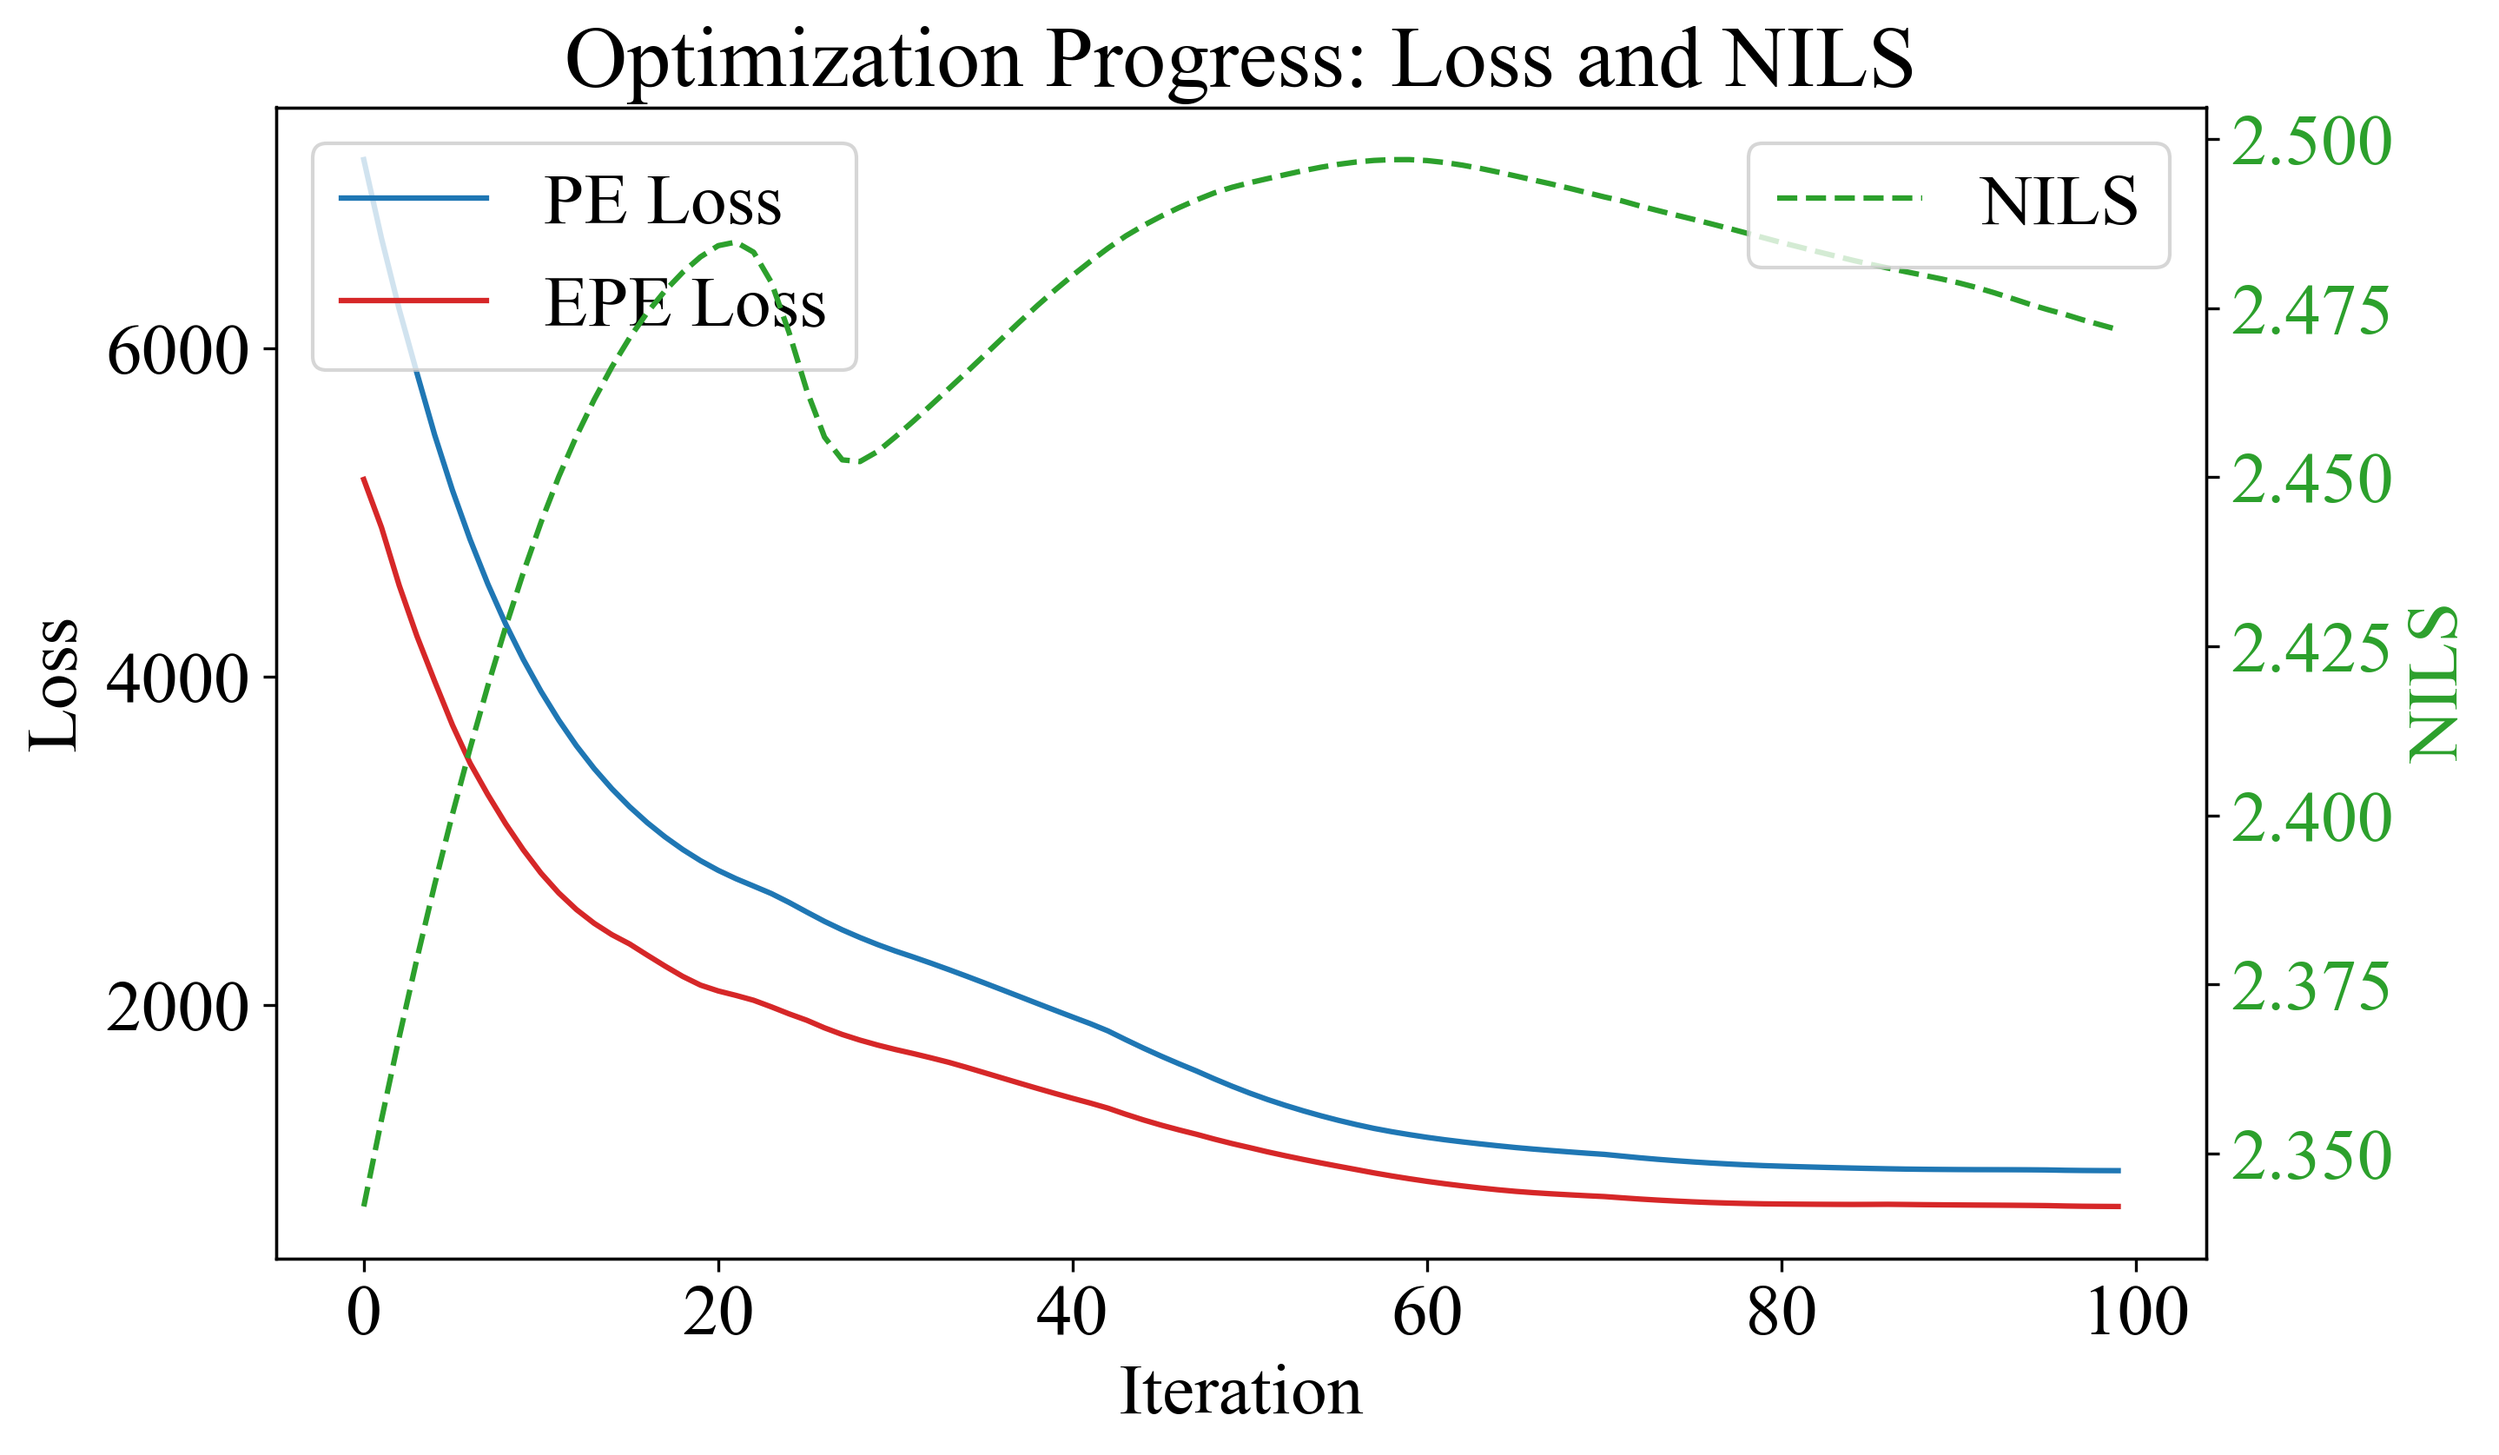
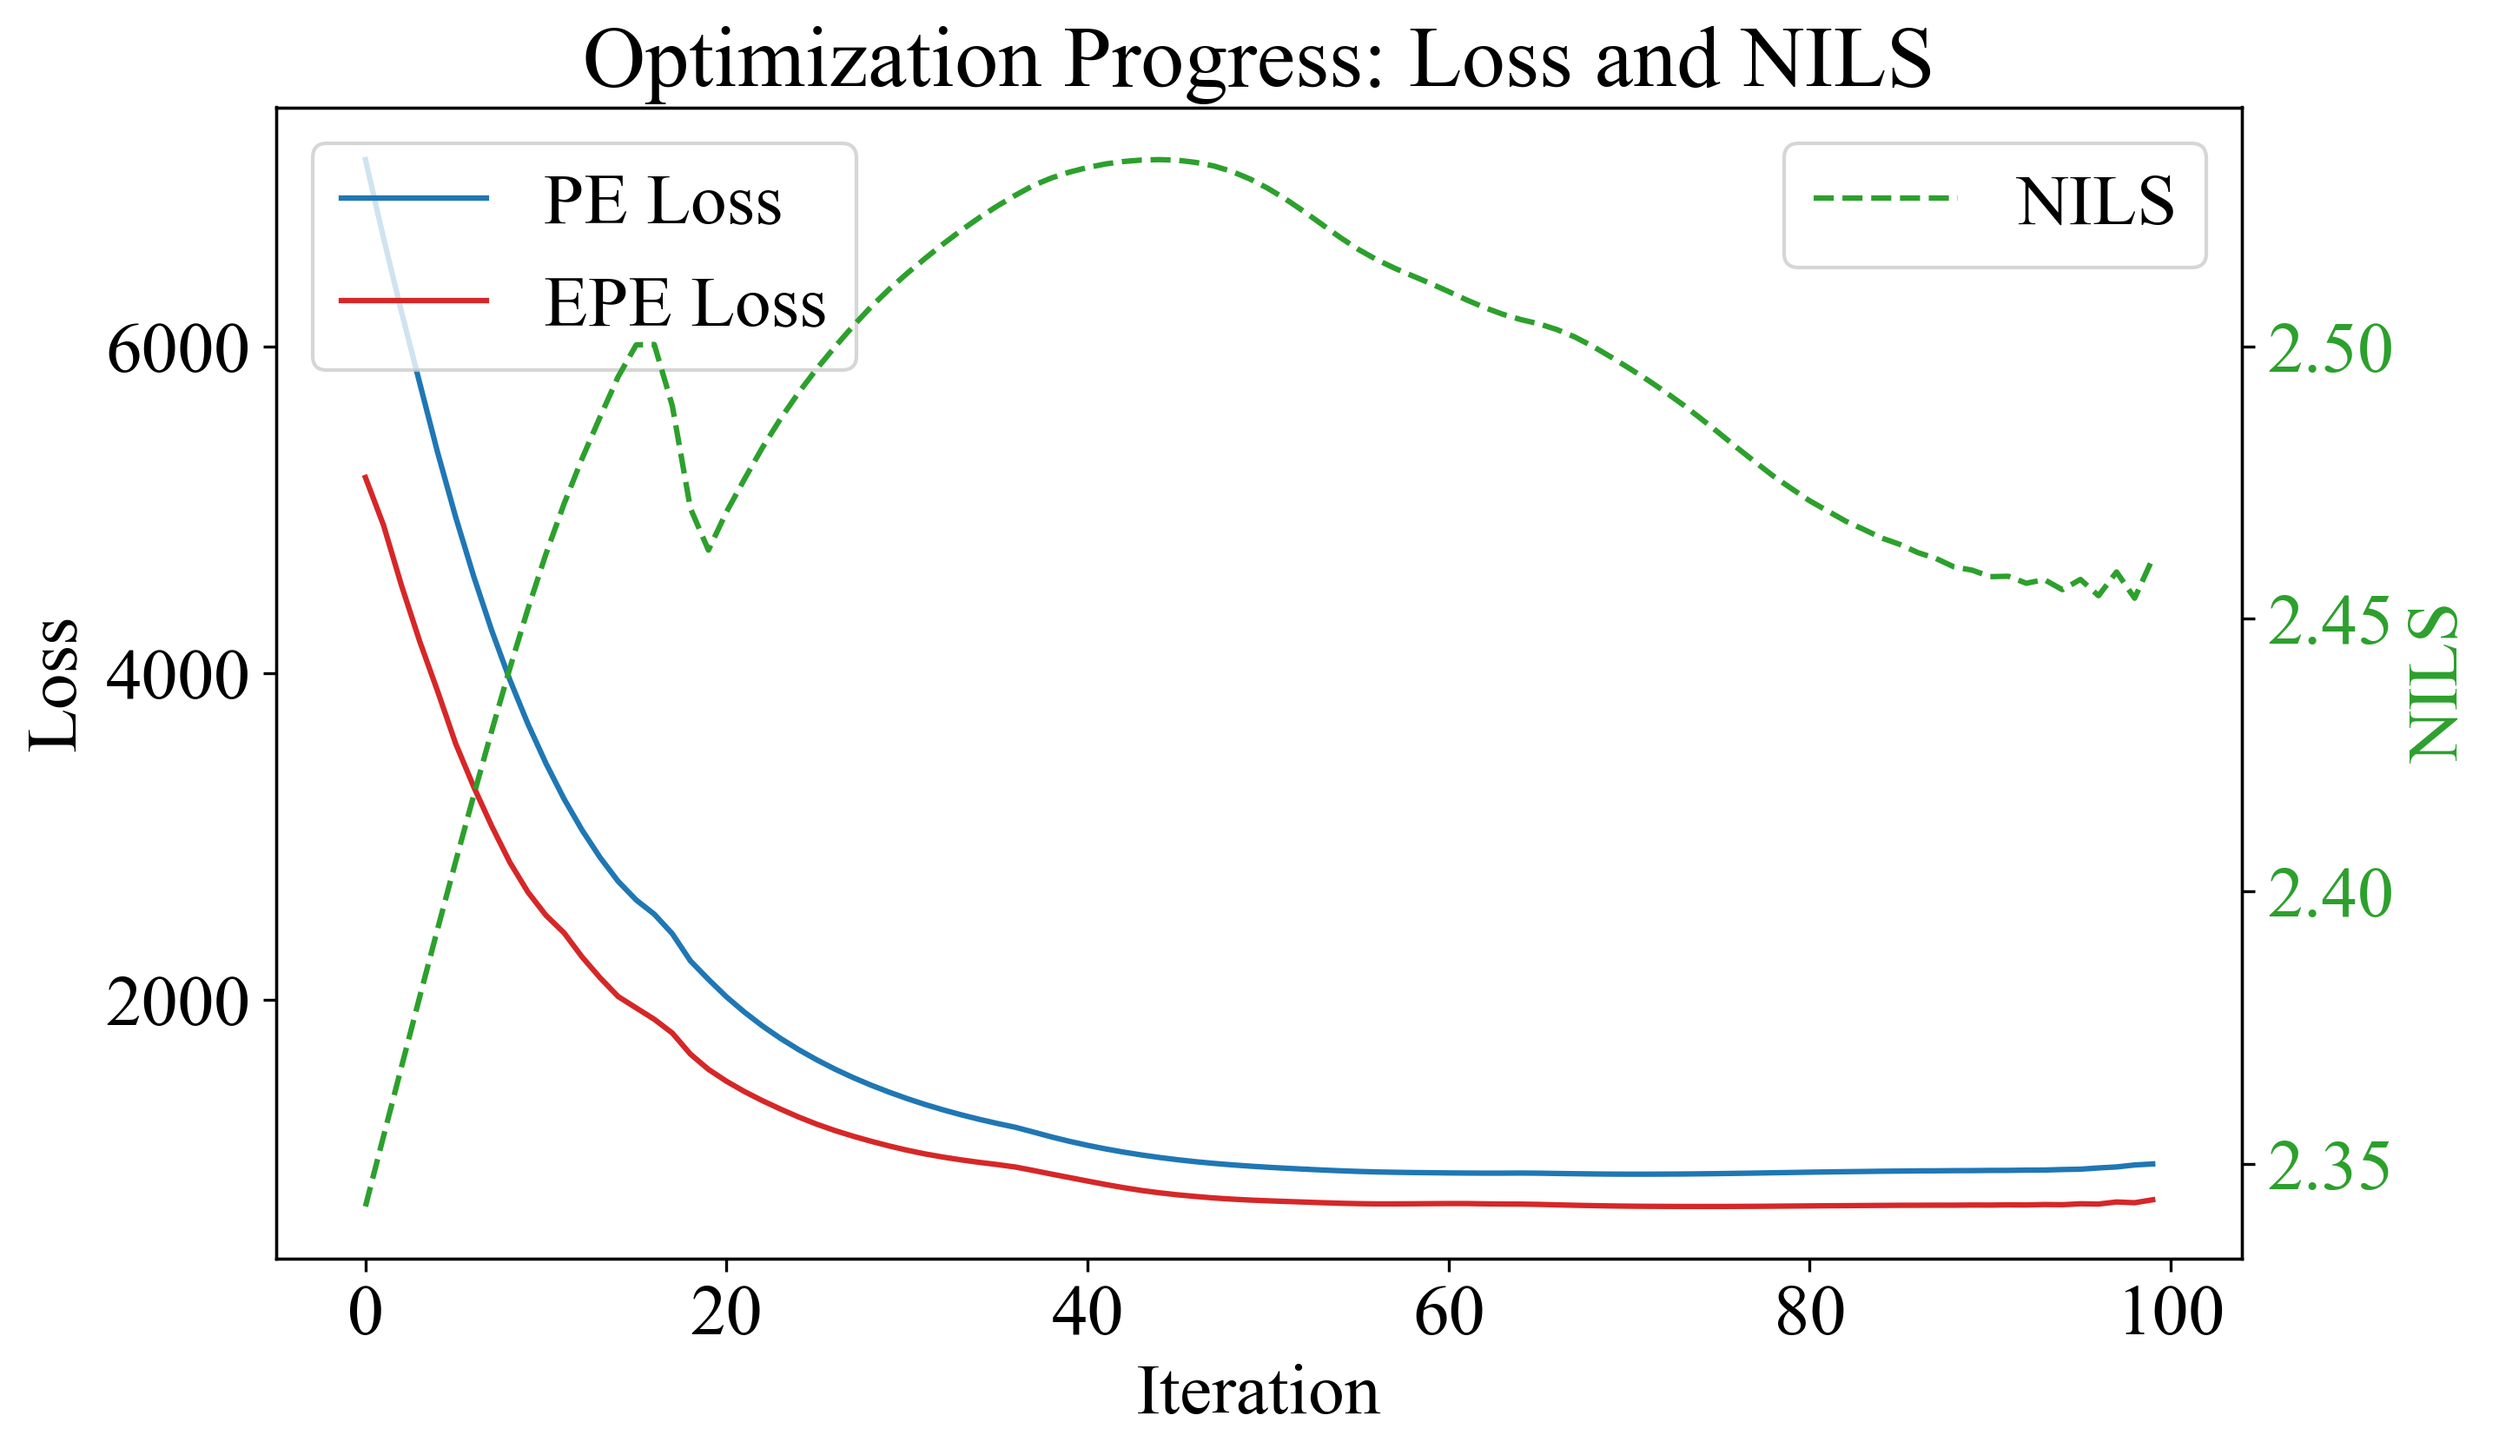
delete Warm-up iteration update log

diff --git a/core/inverse_lithography_comb.py b/core/inverse_lithography_comb.py
@@ -6,7 +6,7 @@ from scipy.fft import fft2, ifft2, fftshift, ifftshift
 from scipy.sparse.linalg import svds
 from tqdm import tqdm
 from scipy.sparse import lil_matrix, csr_matrix
-from scipy.ndimage import laplace  # 用于稳定的 NILS 梯度
+from scipy.ndimage import laplace
 from config.parameters import *
 from utils.optimization_logger import OptimizationLogger
 
@@ -16,19 +16,17 @@ logger = logging.getLogger(__name__)
 class EdgeConstrainedInverseLithographyOptimizer:
     """
     边缘约束逆光刻优化器 (Edge-Constrained PE Base)
-    包含了带“形状守卫”的拉普拉斯 NILS 联合优化方案
+    包含拉普拉斯 NILS 联合优化方案（无预热切换，始终联合优化）
     """
 
     def __init__(self, lambda_=LAMBDA, na=NA, sigma=SIGMA, dx=DX, dy=DY,
                  lx=LX, ly=LY, k_svd=ILT_K_SVD, a=A, tr=TR,
                  optimizer_type=OPTIMIZER_TYPE, edge_pixel_range=5,
-                 canny_low_threshold=1, canny_high_threshold=300,
-                 lambda_nils=0.5, nils_cd=NILS_CD, nils_edge_dilation=5,
-                 apply_sharpening=False, sharpening_strength=2.0, sharpening_sigma=1):
+                 canny_low_threshold=50, canny_high_threshold=200,
+                 lambda_nils=0.7, nils_cd=NILS_CD):  # lambda_nils 控制 NILS 权重，0 表示不开启
         """
         参数:
-            lambda_nils: NILS 梯度的最大缩放比例 (建议 0.1~0.2，0 表示不开启)
-            apply_sharpening: 是否应用空间像锐化 (建议设为 False，使用真实的 ILT NILS 优化)
+            lambda_nils: NILS 梯度的整体能量比例（建议 0.5~1.0），0 表示禁用 NILS 优化
         """
         self.lambda_ = lambda_
         self.na = na
@@ -46,10 +44,6 @@ class EdgeConstrainedInverseLithographyOptimizer:
         self.canny_high_threshold = canny_high_threshold
         self.lambda_nils = lambda_nils
         self.nils_cd = nils_cd
-        self.nils_edge_dilation = nils_edge_dilation
-        self.apply_sharpening = apply_sharpening
-        self.sharpening_strength = sharpening_strength
-        self.sharpening_sigma = sharpening_sigma
         self.optimizer_state = {}
 
         self.update_mask = None
@@ -59,8 +53,8 @@ class EdgeConstrainedInverseLithographyOptimizer:
         self._precompute_tcc_svd()
 
         logger.info(
-            f"EdgeConstrainedInverseLithographyOptimizer initialized: opt={optimizer_type}, "
-            f"lambda_nils={lambda_nils}, apply_sharpening={apply_sharpening}")
+            f"EdgeConstrainedInverseLithographyOptimizer initialized: opt={optimizer_type}"
+        )
 
     def pupil_response_function(self, fx, fy):
         r = np.sqrt(fx ** 2 + fy ** 2)
@@ -184,7 +178,6 @@ class EdgeConstrainedInverseLithographyOptimizer:
         """
         binary_target = (target > 0.5).astype(np.uint8)
         kernel = np.ones((3, 3), np.uint8)
-
         # 放宽到 3 像素：用膨胀 1 次减去腐蚀 2 次的内侧
         dilated = cv2.dilate(binary_target, kernel, iterations=1)
         eroded = cv2.erode(binary_target, kernel, iterations=2)  # 腐蚀两次扩大着力带
@@ -244,10 +237,8 @@ class EdgeConstrainedInverseLithographyOptimizer:
         # 初始化 NILS 梯度变量（用于返回）
         grad_nils_adj = None
 
-        # 4. 融合 NILS 梯度 (梯度手术 PCGrad + 严格能量匹配)
-        warmup_iters = int(max_iterations * 0.3)
-
-        if self.lambda_nils > 0 and current_iteration >= warmup_iters:
+        # 4. 融合 NILS 梯度 (梯度手术 PCGrad + 严格能量匹配)，无预热阶段
+        if self.lambda_nils > 0:
             # 计算原始 NILS 锐化梯度
             grad_nils = self._compute_nils_gradient_stable(target, intensity_raw, A_i_list)
 
@@ -270,9 +261,7 @@ class EdgeConstrainedInverseLithographyOptimizer:
             norm_nils = np.linalg.norm(grad_nils_proj)
 
             if norm_nils > 1e-12 and norm_pe > 1e-12:
-                progress = (current_iteration - warmup_iters) / (max_iterations - warmup_iters)
-
-                # target_ratio 控制了 NILS 梯度的整体能量相对于 PE 的比例
+                progress = current_iteration / max_iterations  # 全局进度
                 target_ratio = progress * self.lambda_nils
 
                 # 强制缩放：保证 norm(grad_nils_adj) == target_ratio * norm(gradient_pe)
@@ -309,7 +298,7 @@ class EdgeConstrainedInverseLithographyOptimizer:
     def optimize(self, initial_mask, target, learning_rate=None,
                  max_iterations=ILT_MAX_ITERATIONS,
                  log_csv=True, log_dir="logs", experiment_tag="",
-                 **optimizer_params):
+                 ILT_OPTIMIZER_CONFIGS=None, **optimizer_params):
 
         mask = initial_mask.copy()
         best_mask = initial_mask.copy()
@@ -339,7 +328,7 @@ class EdgeConstrainedInverseLithographyOptimizer:
         start_time = time.time()
 
         print(f"Starting Edge-Constrained Joint Optimization ({max_iterations} iters)...")
-        print(f"Warm-up phase: 0 to {int(max_iterations * 0.3)} iters.")
+        print(f"NILS optimization active from start (lambda_nils={self.lambda_nils}).")
 
         for iteration in range(max_iterations):
             total_loss, pe_loss, epe_loss, gradient, aerial, printed, intensity_raw, A_i_list, grad_pe, grad_nils = \
@@ -363,8 +352,18 @@ class EdgeConstrainedInverseLithographyOptimizer:
             history['epe_loss'].append(epe_loss)
 
             if csv_logger:
-                csv_logger.log_iteration(iteration, pe_loss, masked_gradient, mask,
-                                         self.optimizer_state, time.time() - start_time, nils=nils)
+                # 修正后的调用：按新签名传递参数
+                csv_logger.log_iteration(
+                    iteration,
+                    pe_loss,
+                    epe_loss,
+                    nils,
+                    total_loss,
+                    masked_gradient,
+                    mask,
+                    self.optimizer_state,
+                    time.time() - start_time
+                )
 
             mask = self._update_with_optimizer(mask, masked_gradient, learning_rate, **optimizer_params)
 
@@ -393,18 +392,14 @@ def inverse_lithography_optimization_edge_constrained_base(initial_mask, target_
                                                            learning_rate=None,
                                                            max_iterations=ILT_MAX_ITERATIONS,
                                                            optimizer_type=OPTIMIZER_TYPE,
-                                                           edge_pixel_range=10,
+                                                           edge_pixel_range=5,
                                                            canny_low_threshold=50,
                                                            canny_high_threshold=150,
-                                                           lambda_nils=0.5,  # 推荐设为 0.5 或更高以发挥效果
+                                                           lambda_nils=0.5,  # 推荐设为 0.5 或更高
                                                            nils_cd=NILS_CD,
-                                                           nils_edge_dilation=5,
-                                                           apply_sharpening=False,  # 务必设为 False
-                                                           sharpening_strength=1.0,
-                                                           sharpening_sigma=1.0,
                                                            **optimizer_params):
     """
-    边缘约束逆向光刻优化（融合 NILS 拉普拉斯守卫）
+    边缘约束逆向光刻优化（融合 NILS 拉普拉斯守卫，无预热阶段）
     """
     optimizer = EdgeConstrainedInverseLithographyOptimizer(
         optimizer_type=optimizer_type,
@@ -413,10 +408,6 @@ def inverse_lithography_optimization_edge_constrained_base(initial_mask, target_
         canny_high_threshold=canny_high_threshold,
         lambda_nils=lambda_nils,
         nils_cd=nils_cd,
-        nils_edge_dilation=nils_edge_dilation,
-        apply_sharpening=apply_sharpening,
-        sharpening_strength=sharpening_strength,
-        sharpening_sigma=sharpening_sigma
     )
 
     optimized_mask, history, update_mask = optimizer.optimize(

diff --git a/utils/optimization_logger.py b/utils/optimization_logger.py
@@ -1,4 +1,3 @@
-# 文件：utils/optimization_logger.py
 import csv
 import os
 import numpy as np
@@ -6,7 +5,7 @@ from datetime import datetime
 
 
 class OptimizationLogger:
-    """优化过程CSV日志记录器"""
+    """优化过程CSV日志记录器（支持PE、EPE、NILS分别记录）"""
 
     def __init__(self, log_dir="../lithography_simulation_Hopkins/data/logs", filename=None):
         """
@@ -54,9 +53,9 @@ class OptimizationLogger:
         self.writer.writerow(["# ==========================================="])
         self.writer.writerow([])  # 空行分隔
 
-        # CSV表头（添加了 nils 字段）
-        headers = ["iteration", "loss", "grad_norm", "nils",
-                   "mask_min", "mask_max", "mask_mean", "mask_std"]
+        # CSV表头：添加 pe_loss, epe_loss, nils 分别记录
+        headers = ["iteration", "pe_loss", "epe_loss", "nils", "total_loss",
+                   "grad_norm", "mask_min", "mask_max", "mask_mean", "mask_std"]
 
         # 根据优化器类型添加特定字段
         if optimizer_type == 'momentum':
@@ -77,9 +76,22 @@ class OptimizationLogger:
         print(f"CSV日志已创建: {self.filepath}")
         return self.filepath
 
-    def log_iteration(self, iteration, loss, gradient, mask,
-                      optimizer_state=None, time_elapsed=0, nils=None):
-        """记录单次迭代数据"""
+    def log_iteration(self, iteration, pe_loss, epe_loss, nils, total_loss,
+                      gradient, mask, optimizer_state=None, time_elapsed=0):
+        """
+        记录单次迭代数据
+
+        参数:
+            iteration: 迭代次数
+            pe_loss: 像素误差损失
+            epe_loss: 边缘放置误差损失
+            nils: 平均NILS值
+            total_loss: 总损失（可能包含正则项）
+            gradient: 当前梯度
+            mask: 当前掩模
+            optimizer_state: 优化器状态字典（可选）
+            time_elapsed: 已用时间
+        """
         # 计算基础指标
         grad_norm = float(np.linalg.norm(gradient))
         mask_min = float(np.min(mask))
@@ -87,9 +99,13 @@ class OptimizationLogger:
         mask_mean = float(np.mean(mask))
         mask_std = float(np.std(mask))
 
-        # 构建数据行（包含 nils）
-        row_data = [iteration, float(loss), grad_norm,
+        # 构建数据行
+        row_data = [iteration,
+                    float(pe_loss) if pe_loss is not None else '',
+                    float(epe_loss) if epe_loss is not None else '',
                     float(nils) if nils is not None else '',
+                    float(total_loss) if total_loss is not None else '',
+                    grad_norm,
                     mask_min, mask_max, mask_mean, mask_std]
 
         # 添加优化器特定指标
